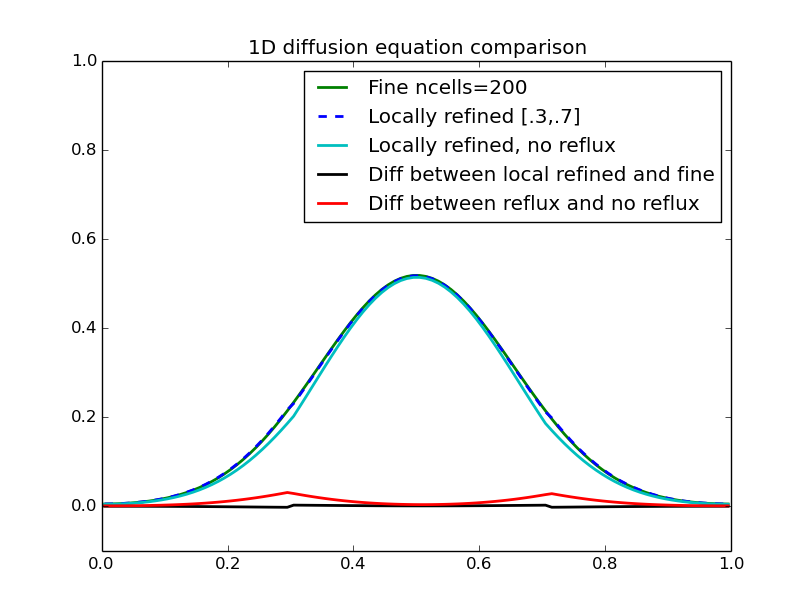
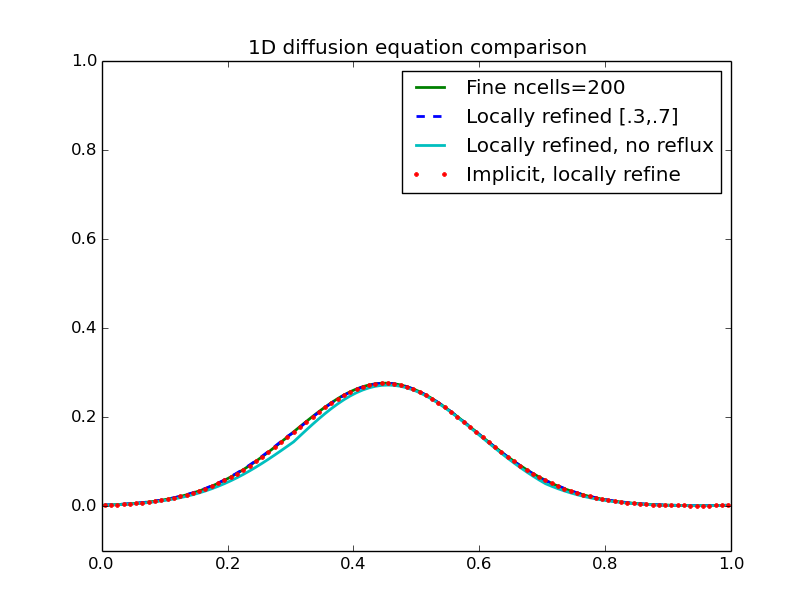
Fixed mass conservation issue. Coarse soln overwritten before fluxes are computed.

diff --git a/fv_diff/data_analysis.py b/fv_diff/data_analysis.py
@@ -22,15 +22,22 @@ if __name__=="__main__":
 	no_reflux = np.loadtxt("soln_no_reflux.dat")
 	lin_interp = np.loadtxt("soln_lin_interp.dat")
 	quad_interp = np.loadtxt("soln_quad_interp.dat")
+	quad_impl =np.loadtxt("soln_impl.dat")
 
 	# interpolate the fine solution (linear) onto the coarse grid
 	# for comparison
 	interp_fine = interpolate(fine)
 
 	# start plotting
+	plt.plot(reflux[1:-1,0], reflux[1:-1,1], 'b-', lw=2, label="Initial condition")
+	plt.legend(loc='best')
+	plt.ylim([0,1.5])
+	plt.show()
+	
 	plt.plot(reflux[1:-1,0], interp_fine[:,2], 'g-', lw=2, label='Fine ncells=200')
 	plt.plot(reflux[1:-1,0], reflux[1:-1,2], 'b--', lw=2, label='Locally refined [.3,.7]')
 	plt.plot(reflux[1:-1,0], no_reflux[1:-1,2], 'c-', lw=2, label='Locally refined, no reflux')
+	plt.plot(reflux[1:-1,0], quad_impl[1:-1,2], 'r.', label="Implicit, locally refine")
 
 	# other plotting configs
 	plt.ylim([-0.1, 1.])
@@ -52,5 +59,9 @@ if __name__=="__main__":
 
 	diff = interp_fine - quad_interp[1:-1,:]
 	plt.plot(reflux[1:-1,0], diff[:,2], 'c--', lw=2, label="Diff w quadratic interpolation")
+
+	diff = interp_fine - quad_impl[1:-1,:]
+	plt.plot(reflux[1:-1,0], diff[:,2], 'r--', lw=2, label="Diff w quad impl")
+
 	plt.legend(loc='best')
 	plt.show()
